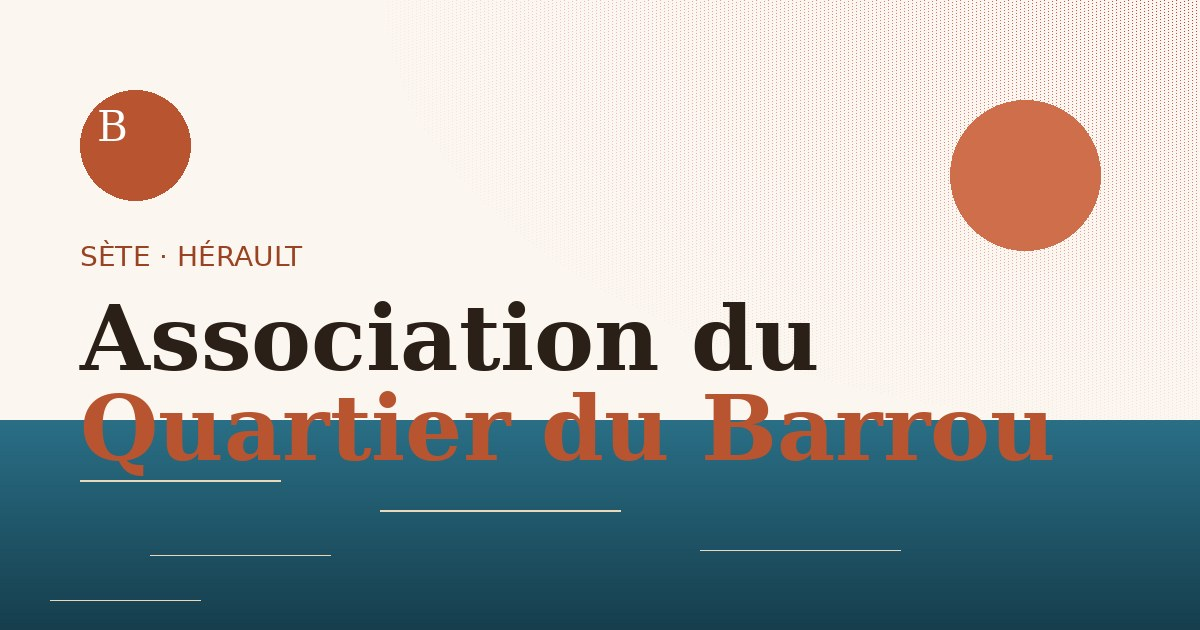
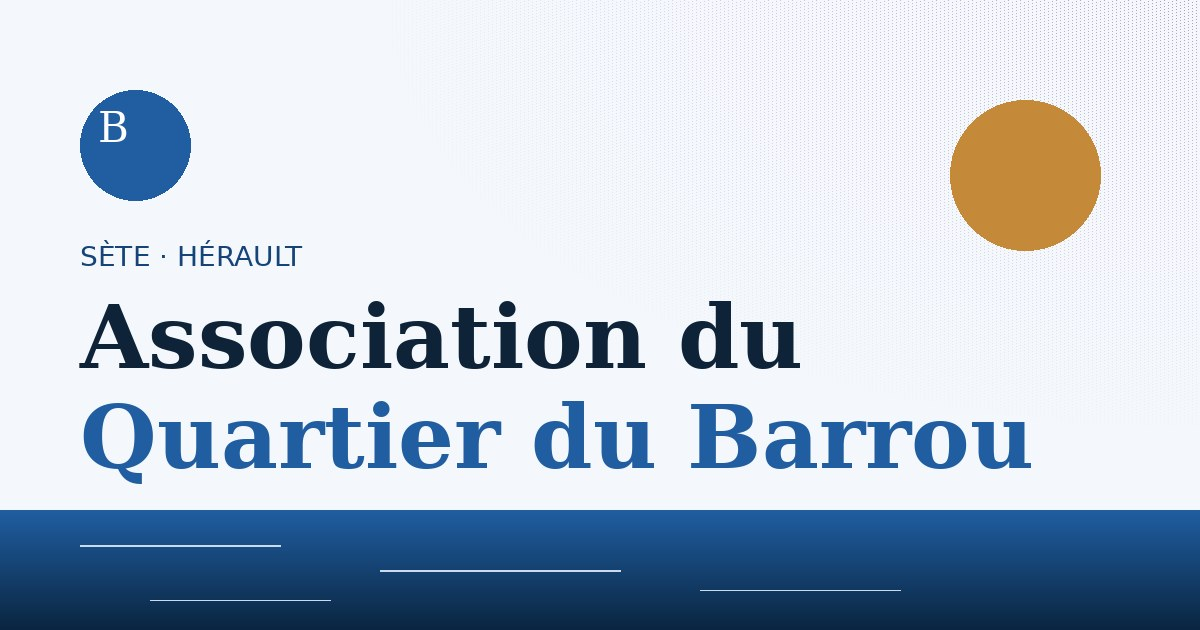
Add files via upload

diff --git a/index.html b/index.html
@@ -104,22 +104,26 @@
 
 <style>
 :root{
-  /* Palette Sud — sable, terracotta, bleu Méditerranée */
-  --sand-50:  #fbf6ef;
-  --sand-100: #f5ecdd;
-  --sand-200: #ead8bb;
-  --sand-300: #d9c098;
-  --terra-400:#cf6e4a;
-  --terra-500:#b8542f;
-  --terra-600:#9a4322;
-  --med-500:  #2a6f86;
-  --med-600:  #1f5468;
-  --med-700:  #163e4d;
-  --olive-600:#6b7c4d;
-  --ink:      #2a2018;
-  --ink-soft: #5a4a3d;
-  --line:     #e3d6c0;
-  --white:    #fffbf4;
+  /* Palette Marine — inspirée du logo hippocampe */
+  /* Fonds & neutres bleutés (ex-sable) */
+  --sand-50:  #f4f8fc;   /* fond de page très clair */
+  --sand-100: #e6eff8;   /* cartes, sections claires */
+  --sand-200: #c9dbec;   /* bordures douces, chips */
+  --sand-300: #9fbdd7;   /* accents subtils */
+  /* Accent principal — bleu vif (ex-terracotta) */
+  --terra-400:#4a86bd;   /* bleu médian */
+  --terra-500:#205ea1;   /* bleu vif, boutons primaires, accents */
+  --terra-600:#164478;   /* bleu foncé — hover */
+  /* Bleus profonds pour éléments sombres (headers, dashboard, footer) */
+  --med-500:  #1e4770;   /* navy médian */
+  --med-600:  #143656;   /* navy foncé */
+  --med-700:  #0a2540;   /* navy très profond */
+  /* Touche chaude — ambre doré, utilisée avec parcimonie pour la respiration */
+  --olive-600:#c48a3a;   /* accent ambre chaleureux */
+  --ink:      #0f2338;   /* texte principal, très foncé et bleuté */
+  --ink-soft: #4d5f7a;   /* texte secondaire */
+  --line:     #dbe5f0;   /* bordures fines */
+  --white:    #ffffff;   /* blanc pur */
 
   --serif: "Fraunces", "Times New Roman", serif;
   --sans:  "Inter", -apple-system, BlinkMacSystemFont, "Segoe UI", sans-serif;
@@ -128,9 +132,9 @@
   --radius:    12px;
   --radius-lg: 20px;
 
-  --shadow-sm: 0 1px 2px rgba(42,32,24,.06), 0 1px 3px rgba(42,32,24,.04);
-  --shadow:    0 4px 12px rgba(42,32,24,.08), 0 2px 4px rgba(42,32,24,.05);
-  --shadow-lg: 0 12px 32px rgba(42,32,24,.12), 0 4px 8px rgba(42,32,24,.06);
+  --shadow-sm: 0 1px 2px rgba(15,35,56,.06), 0 1px 3px rgba(15,35,56,.04);
+  --shadow:    0 4px 12px rgba(15,35,56,.08), 0 2px 4px rgba(15,35,56,.05);
+  --shadow-lg: 0 12px 32px rgba(15,35,56,.14), 0 4px 8px rgba(15,35,56,.06);
 }
 
 *,*::before,*::after{ box-sizing:border-box; }
@@ -492,9 +496,9 @@ p{ margin: 0 0 1rem; }
   color: var(--terra-600);
 }
 .news-cover svg{ width: 64px; height: 64px; opacity: .55; }
-.news-card.cat-evenement .news-cover{ background: linear-gradient(135deg, #f1c9b3, var(--terra-400)); color: #fff; }
-.news-card.cat-info .news-cover{ background: linear-gradient(135deg, #b9d3dc, var(--med-500)); color: #fff; }
-.news-card.cat-vie-quartier .news-cover{ background: linear-gradient(135deg, #d3dcb9, var(--olive-600)); color:#fff; }
+.news-card.cat-evenement .news-cover{ background: linear-gradient(135deg, #f0dfb8, var(--olive-600)); color: #fff; }
+.news-card.cat-info .news-cover{ background: linear-gradient(135deg, #a8c5e4, var(--terra-400)); color: #fff; }
+.news-card.cat-vie-quartier .news-cover{ background: linear-gradient(135deg, #b0c6dd, var(--med-500)); color:#fff; }
 .news-card.cat-evenement .news-cover.has-photo,
 .news-card.cat-info .news-cover.has-photo,
 .news-card.cat-vie-quartier .news-cover.has-photo{
@@ -1472,31 +1476,31 @@ body.admin:not(.on-admin-page) .admin-fab{ display: inline-flex; }
         <svg viewBox="0 0 400 500" xmlns="http://www.w3.org/2000/svg">
           <defs>
             <linearGradient id="sky" x1="0" y1="0" x2="0" y2="1">
-              <stop offset="0%" stop-color="#f5ecdd"/>
-              <stop offset="60%" stop-color="#ead8bb"/>
-              <stop offset="100%" stop-color="#cf6e4a"/>
+              <stop offset="0%" stop-color="#f4f8fc"/>
+              <stop offset="55%" stop-color="#c9dbec"/>
+              <stop offset="100%" stop-color="#7fa8ce"/>
             </linearGradient>
             <linearGradient id="water" x1="0" y1="0" x2="0" y2="1">
-              <stop offset="0%" stop-color="#2a6f86"/>
-              <stop offset="100%" stop-color="#163e4d"/>
+              <stop offset="0%" stop-color="#205ea1"/>
+              <stop offset="100%" stop-color="#0a2540"/>
             </linearGradient>
           </defs>
           <rect width="400" height="500" fill="url(#sky)"/>
-          <!-- Soleil -->
-          <circle cx="290" cy="170" r="55" fill="#fbf6ef" opacity="0.9"/>
-          <circle cx="290" cy="170" r="55" fill="#cf6e4a" opacity="0.3"/>
+          <!-- Soleil (chaleur ambrée pour contraster avec le bleu) -->
+          <circle cx="290" cy="170" r="55" fill="#f9f2e0" opacity="0.95"/>
+          <circle cx="290" cy="170" r="55" fill="#c48a3a" opacity="0.28"/>
           <!-- Collines lointaines -->
-          <path d="M0 300 Q 100 270 180 285 T 400 290 L400 320 L0 320 Z" fill="#9a4322" opacity="0.4"/>
+          <path d="M0 300 Q 100 270 180 285 T 400 290 L400 320 L0 320 Z" fill="#164478" opacity="0.45"/>
           <!-- Eau -->
           <rect x="0" y="305" width="400" height="195" fill="url(#water)"/>
           <!-- Reflets -->
-          <path d="M40 360 L100 360" stroke="#ead8bb" stroke-width="1.5" opacity="0.5"/>
-          <path d="M150 380 L240 380" stroke="#ead8bb" stroke-width="1.5" opacity="0.5"/>
-          <path d="M60 410 L130 410" stroke="#ead8bb" stroke-width="1.5" opacity="0.4"/>
-          <path d="M250 420 L340 420" stroke="#ead8bb" stroke-width="1.5" opacity="0.4"/>
-          <path d="M30 450 L100 450" stroke="#ead8bb" stroke-width="1.5" opacity="0.3"/>
+          <path d="M40 360 L100 360" stroke="#c9dbec" stroke-width="1.5" opacity="0.55"/>
+          <path d="M150 380 L240 380" stroke="#c9dbec" stroke-width="1.5" opacity="0.55"/>
+          <path d="M60 410 L130 410" stroke="#c9dbec" stroke-width="1.5" opacity="0.4"/>
+          <path d="M250 420 L340 420" stroke="#c9dbec" stroke-width="1.5" opacity="0.4"/>
+          <path d="M30 450 L100 450" stroke="#c9dbec" stroke-width="1.5" opacity="0.3"/>
           <!-- Tables conchylicoles -->
-          <g stroke="#2a2018" stroke-width="2" opacity="0.5">
+          <g stroke="#0a2540" stroke-width="2" opacity="0.5">
             <line x1="30" y1="335" x2="180" y2="335"/>
             <line x1="220" y1="345" x2="370" y2="345"/>
             <line x1="40" y1="335" x2="40" y2="345"/>
@@ -1509,14 +1513,14 @@ body.admin:not(.on-admin-page) .admin-fab{ display: inline-flex; }
           </g>
           <!-- Barque -->
           <g transform="translate(120, 380)">
-            <path d="M0 0 Q 25 18 50 0 L45 8 L5 8 Z" fill="#2a2018"/>
-            <line x1="25" y1="0" x2="25" y2="-30" stroke="#2a2018" stroke-width="2"/>
-            <path d="M25 -30 L25 -10 L40 -15 Z" fill="#fbf6ef" opacity="0.95"/>
+            <path d="M0 0 Q 25 18 50 0 L45 8 L5 8 Z" fill="#0a2540"/>
+            <line x1="25" y1="0" x2="25" y2="-30" stroke="#0a2540" stroke-width="2"/>
+            <path d="M25 -30 L25 -10 L40 -15 Z" fill="#ffffff" opacity="0.95"/>
           </g>
           <!-- Mouettes -->
-          <path d="M80 130 q 6 -8 12 0 q 6 -8 12 0" stroke="#2a2018" stroke-width="2" fill="none" stroke-linecap="round"/>
-          <path d="M150 100 q 5 -6 10 0 q 5 -6 10 0" stroke="#2a2018" stroke-width="1.5" fill="none" stroke-linecap="round"/>
-          <path d="M210 145 q 4 -5 8 0 q 4 -5 8 0" stroke="#2a2018" stroke-width="1.5" fill="none" stroke-linecap="round"/>
+          <path d="M80 130 q 6 -8 12 0 q 6 -8 12 0" stroke="#0f2338" stroke-width="2" fill="none" stroke-linecap="round"/>
+          <path d="M150 100 q 5 -6 10 0 q 5 -6 10 0" stroke="#0f2338" stroke-width="1.5" fill="none" stroke-linecap="round"/>
+          <path d="M210 145 q 4 -5 8 0 q 4 -5 8 0" stroke="#0f2338" stroke-width="1.5" fill="none" stroke-linecap="round"/>
         </svg>
         </div>
         <div class="hero-stamp">
